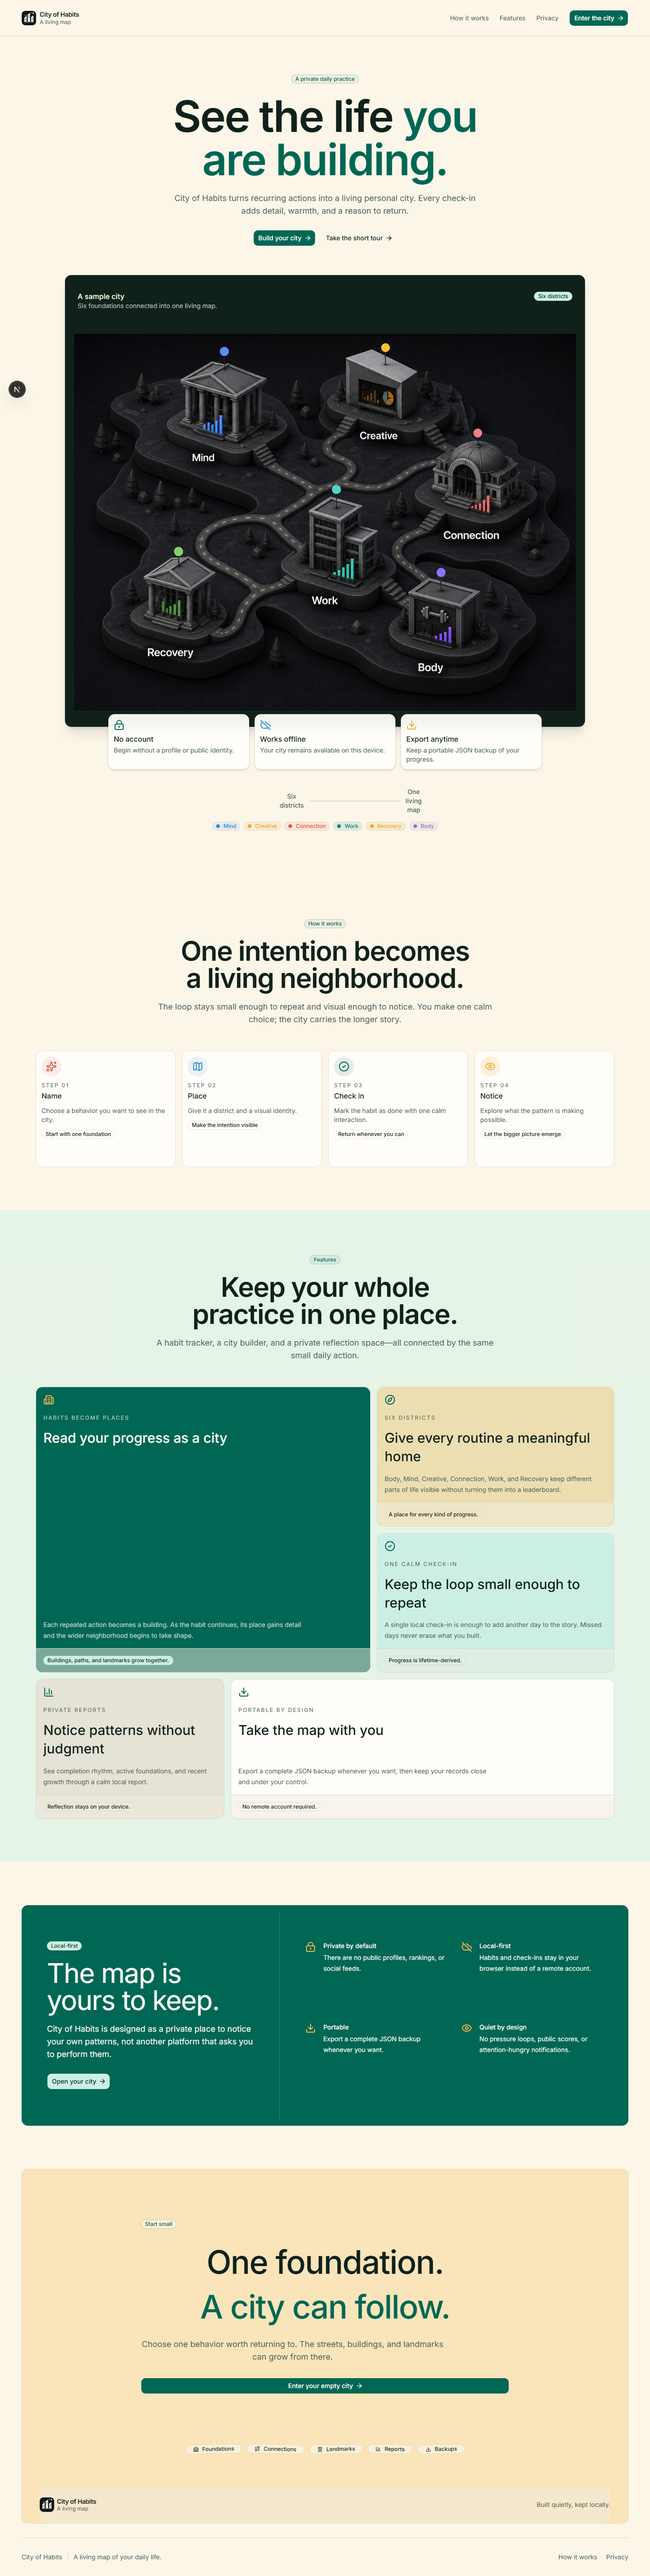
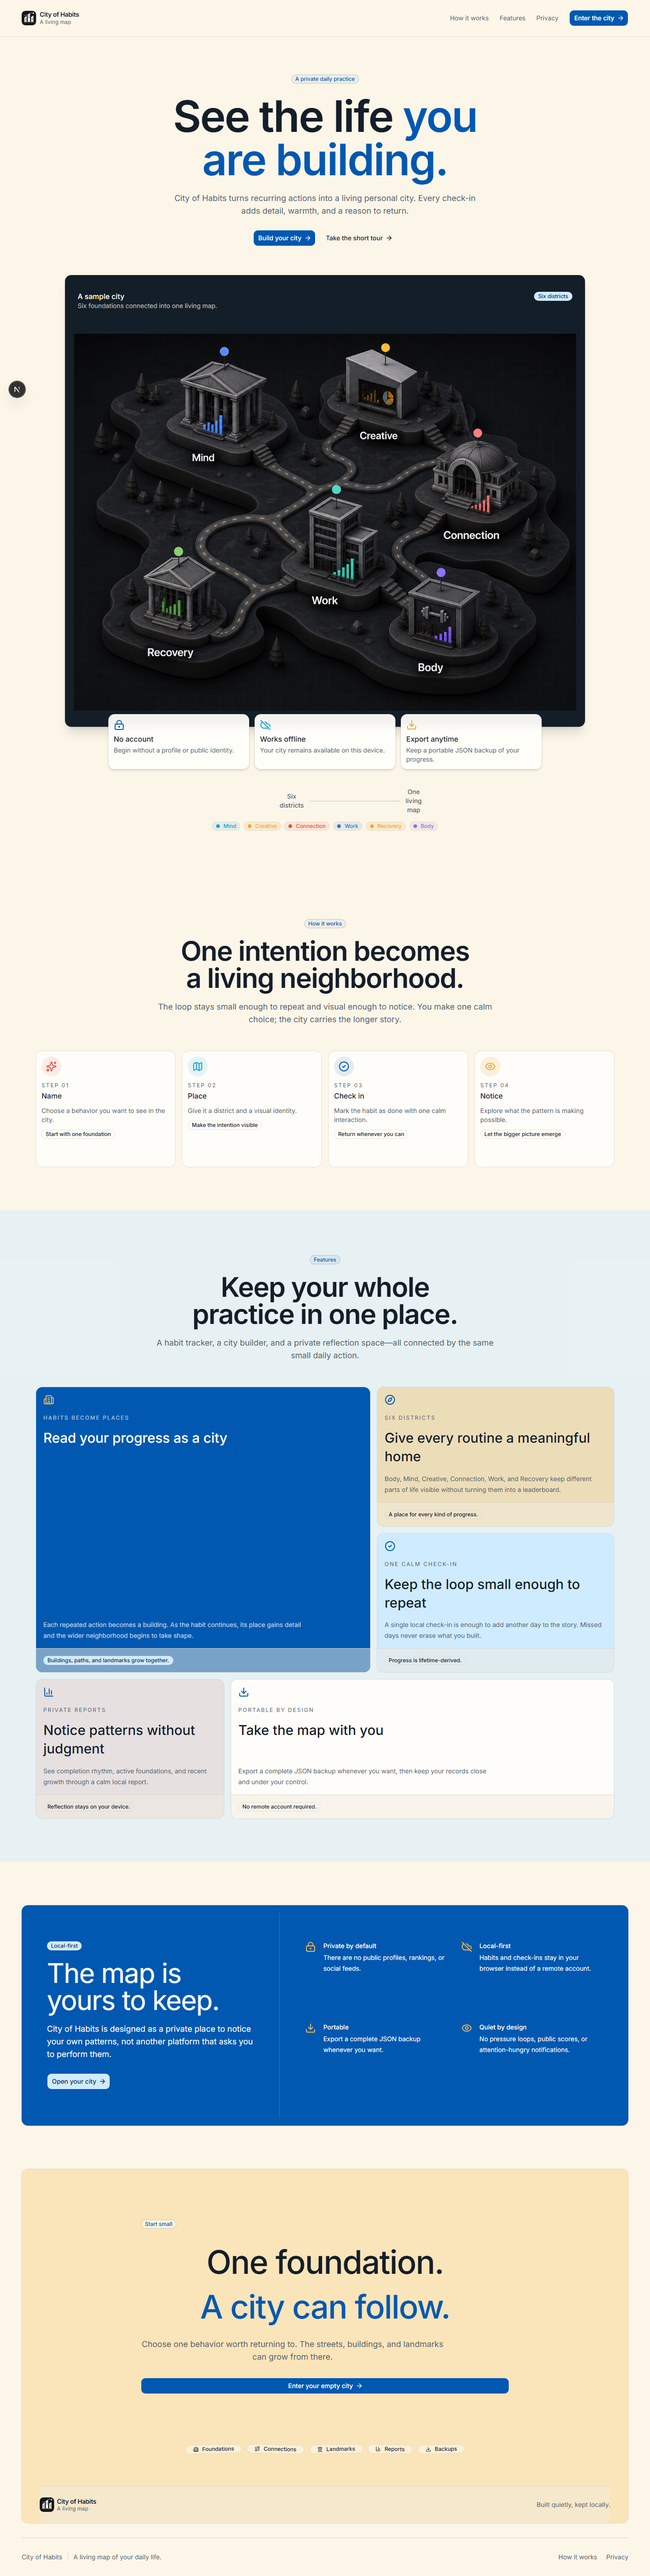
style: shift landing accent from green to blue

diff --git a/src/app/globals.css b/src/app/globals.css
@@ -134,37 +134,37 @@
 [data-landing-theme="light"] {
   color-scheme: light;
   --background: oklch(0.975 0.018 85);
-  --foreground: oklch(0.23 0.025 170);
+  --foreground: oklch(0.23 0.025 250);
   --card: oklch(0.995 0.006 85);
-  --card-foreground: oklch(0.23 0.025 170);
+  --card-foreground: oklch(0.23 0.025 250);
   --popover: oklch(0.995 0.006 85);
-  --popover-foreground: oklch(0.23 0.025 170);
-  --primary: oklch(0.45 0.1 177);
+  --popover-foreground: oklch(0.23 0.025 250);
+  --primary: oklch(0.47 0.16 255);
   --primary-foreground: oklch(0.985 0.006 85);
-  --secondary: oklch(0.925 0.04 174);
-  --secondary-foreground: oklch(0.25 0.035 170);
+  --secondary: oklch(0.925 0.04 240);
+  --secondary-foreground: oklch(0.25 0.035 250);
   --muted: oklch(0.945 0.018 85);
-  --muted-foreground: oklch(0.47 0.03 170);
+  --muted-foreground: oklch(0.47 0.03 250);
   --accent: oklch(0.82 0.14 78);
   --accent-foreground: oklch(0.28 0.035 75);
   --destructive: oklch(0.63 0.18 30);
   --destructive-foreground: oklch(0.985 0.006 85);
   --border: oklch(0.875 0.025 85);
   --input: oklch(0.875 0.025 85);
-  --ring: oklch(0.52 0.105 177);
-  --chart-1: oklch(0.54 0.13 177);
+  --ring: oklch(0.54 0.14 255);
+  --chart-1: oklch(0.56 0.15 255);
   --chart-2: oklch(0.78 0.15 78);
   --chart-3: oklch(0.63 0.18 30);
-  --chart-4: oklch(0.62 0.14 245);
+  --chart-4: oklch(0.68 0.13 225);
   --chart-5: oklch(0.62 0.15 300);
   --sidebar: oklch(0.995 0.006 85);
-  --sidebar-foreground: oklch(0.23 0.025 170);
-  --sidebar-primary: oklch(0.45 0.1 177);
+  --sidebar-foreground: oklch(0.23 0.025 250);
+  --sidebar-primary: oklch(0.47 0.16 255);
   --sidebar-primary-foreground: oklch(0.985 0.006 85);
-  --sidebar-accent: oklch(0.925 0.04 174);
-  --sidebar-accent-foreground: oklch(0.25 0.035 170);
+  --sidebar-accent: oklch(0.925 0.04 240);
+  --sidebar-accent-foreground: oklch(0.25 0.035 250);
   --sidebar-border: oklch(0.875 0.025 85);
-  --sidebar-ring: oklch(0.52 0.105 177);
+  --sidebar-ring: oklch(0.54 0.14 255);
 }
 
 @layer base {

diff --git a/design-qa.md b/design-qa.md
@@ -1,4 +1,4 @@
-# Sunlit Civic Landing Page Design QA
+# Cobalt Civic Landing Page Design QA
 
 ## Visual sources
 
@@ -19,16 +19,16 @@ The references were used as combined visual direction rather than literal produc
 
 ## Visual direction and corrections
 
-### Sunlit Civic system
+### Cobalt Civic system
 
-- Added a landing-scoped semantic palette: warm ivory canvas, deep green-ink text, verdant teal primary actions, pale teal surfaces, marigold emphasis, and restrained coral/blue/violet district signals.
+- Added a landing-scoped semantic palette: warm ivory canvas, deep blue-ink text, cobalt blue primary actions, pale blue surfaces, marigold emphasis, and restrained coral/sky/violet district signals.
 - Kept the sample city artwork as the visual anchor and reused its existing signal colors instead of adding new assets.
 - Preserved Inter, Base Nova shadcn primitives, Lucide icons, default radii, and semantic token composition.
 
 ### Composition pass
 
 - Reframed the hero as a borderless, centered editorial introduction with the city preview as a dark visual stage and three overlapping local-first promise cards.
-- Added a six-district legend below the hero, a four-step journey grid, a 12-column asymmetric feature bento, a teal privacy band, and a marigold final CTA/footer.
+- Added a six-district legend below the hero, a four-step journey grid, a 12-column asymmetric feature bento, a cobalt privacy band, and a marigold final CTA/footer.
 - Converted major landing titles to native semantic headings so the visual hierarchy is also available to assistive technology.
 
 ### Responsive and accessibility pass
